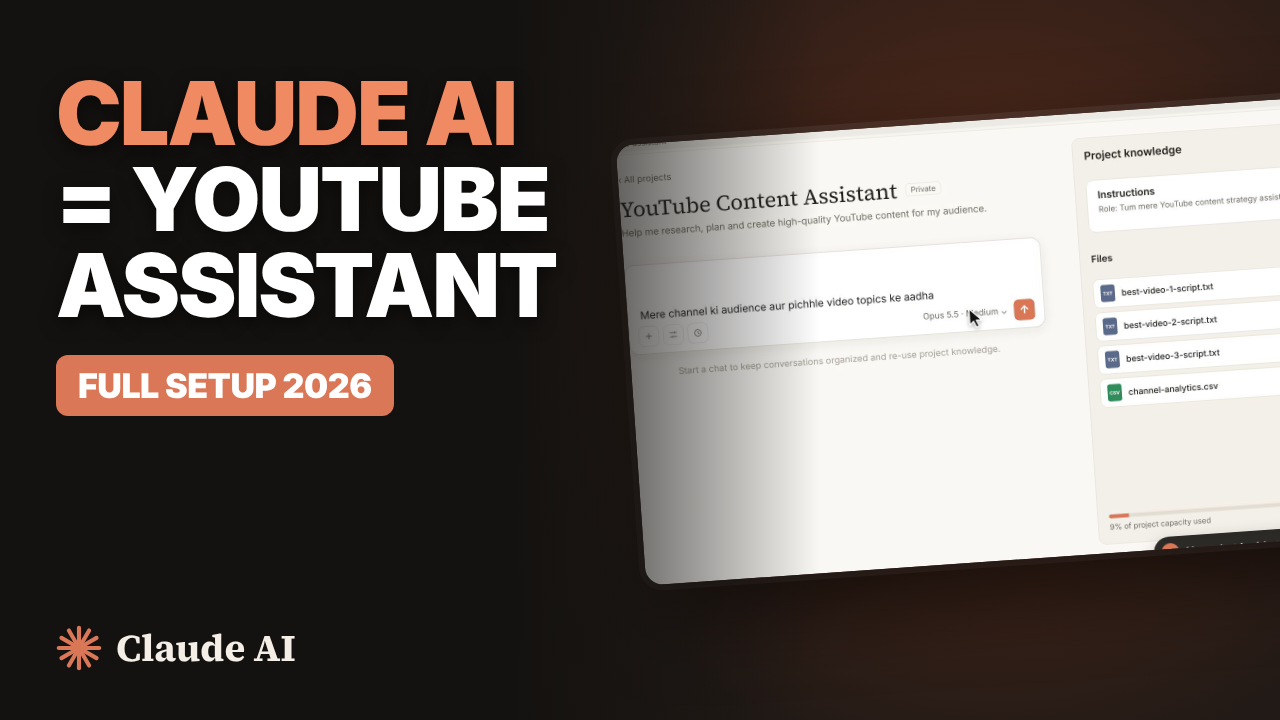
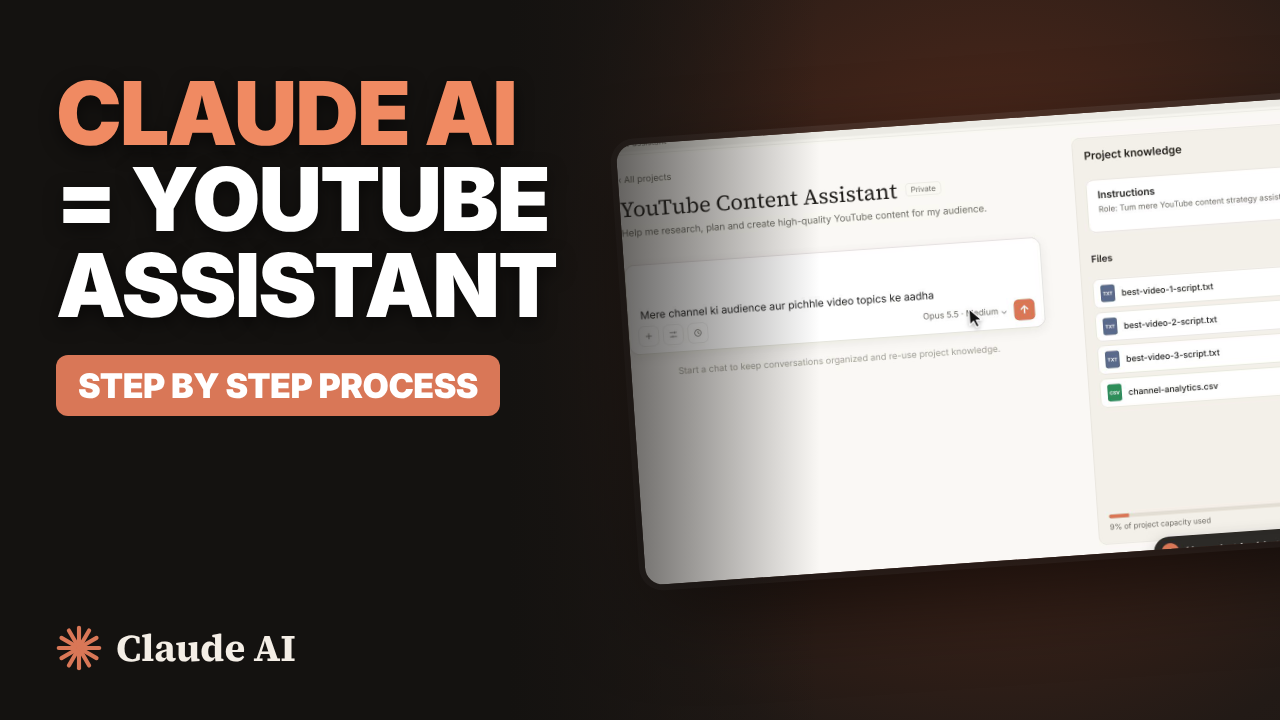
Dub tutorial: drop year from on-screen titles, rename Studio menu to Languages
Claude-Session: https://claude.ai/code/session_01MyjjH9AmvggqVS9HEsQbBr

Changed region(s): [[0.0625, 0.4889, 0.4062, 0.5806]]

diff --git a/youtube-production-kit/remotion/claude-sample-60/src/dub/studio.tsx b/youtube-production-kit/remotion/claude-sample-60/src/dub/studio.tsx
@@ -53,7 +53,7 @@ export const Avatar: React.FC<{ size: number; style?: React.CSSProperties }> = (
   <div style={{ width: size, height: size, borderRadius: size / 2, background: "linear-gradient(135deg,#D97757,#B4532F)", color: "#fff", display: "grid", placeItems: "center", fontWeight: 700, fontSize: size * 0.46, fontFamily: SANS, ...style }}>S</div>
 );
 
-export const NAV = ["Dashboard", "Content", "Analytics", "Community", "Subtitles", "Copyright", "Earn", "Customization", "Audio library"] as const;
+export const NAV = ["Dashboard", "Content", "Analytics", "Community", "Languages", "Copyright", "Earn", "Customization", "Audio library"] as const;
 const NAV_IC = [SI.dash, SI.content, SI.analytics, SI.community, SI.subtitles, SI.copyright, SI.earn, SI.custom, SI.audio];
 export const NAV_W = 290;
 export const navY = (i: number) => 262 + i * 56; // page y of item centre
@@ -109,9 +109,9 @@ export const Studio: React.FC<{ active?: number; hover?: number; settingsHover?:
 );
 
 export const VIDEOS = [
-  { t: "Claude AI Ko YouTube Content Assistant Kaise Banaye (Step by Step 2026)", img: "dub/thumbA.png", d: "11:12", langs: "1", mod: "Nov 20, 2026" },
-  { t: "Claude vs ChatGPT: YouTube Creators Ke Liye Kaun Better Hai?", img: "dub/thumbB.png", d: "9:48", langs: "1", mod: "Nov 12, 2026" },
-  { t: "Mobile Se YouTube Channel Kaise Banaye 2026 | Full Guide", img: "dub/thumbC.png", d: "12:05", langs: "1", mod: "Nov 02, 2026" },
+  { t: "Claude AI Ko YouTube Content Assistant Kaise Banaye (Step by Step Process)", img: "dub/thumbA.png", d: "11:12", langs: "1", mod: "Nov 20" },
+  { t: "Claude vs ChatGPT: YouTube Creators Ke Liye Kaun Better Hai?", img: "dub/thumbB.png", d: "9:48", langs: "1", mod: "Nov 12" },
+  { t: "Mobile Se YouTube Channel Kaise Banaye | Full Guide", img: "dub/thumbC.png", d: "12:05", langs: "1", mod: "Nov 02" },
 ];
 export const Thumb: React.FC<{ img: string; w: number; d?: string; style?: React.CSSProperties }> = ({ img, w, d, style }) => (
   <div style={{ position: "relative", width: w, height: (w * 9) / 16, borderRadius: 8, overflow: "hidden", background: "#222", flexShrink: 0, ...style }}>
@@ -147,7 +147,7 @@ export const SUB_ROW_Y = (i: number) => 290 + i * 128;
 export const subRowPt = (i: number) => [760, sy(SUB_ROW_Y(i) + 56)] as [number, number];
 export const SubtitlesList: React.FC<{ hover?: number }> = ({ hover }) => (
   <>
-    <div style={{ position: "absolute", left: 330, top: 100, fontSize: 32, fontWeight: 700 }}>Channel subtitles</div>
+    <div style={{ position: "absolute", left: 330, top: 100, fontSize: 32, fontWeight: 700 }}>Channel languages</div>
     <div style={{ position: "absolute", left: 330, top: 160, display: "flex", gap: 34, fontSize: 18, color: S.sub }}>
       {["All", "Drafts", "Published"].map((t, i) => <div key={t} style={{ paddingBottom: 12, borderBottom: i === 0 ? `3px solid ${S.text}` : "none", color: i === 0 ? S.text : S.sub, fontWeight: i === 0 ? 600 : 400 }}>{t}</div>)}
     </div>
@@ -199,7 +199,7 @@ export const VideoLanguages: React.FC<{ rows: LangRow[]; hl?: { row: number; col
     {rows.map((r, i) => (
       <div key={r.lang} style={{ position: "absolute", left: 330, right: 60, top: LROW_Y(i), height: 86, borderBottom: `1px solid ${S.line}`, fontSize: 18 }}>
         <div style={{ position: "absolute", left: 0, top: 18, lineHeight: 1.3 }}><div style={{ fontWeight: 600 }}>{r.lang}</div>{r.note ? <div style={{ fontSize: 15, color: S.sub }}>{r.note}</div> : null}</div>
-        <div style={{ position: "absolute", left: LANG_COLS.mod - 330, top: 30, color: S.sub }}>{r.audio === "add" && r.title === "add" ? "-" : "Nov 28, 2026"}</div>
+        <div style={{ position: "absolute", left: LANG_COLS.mod - 330, top: 30, color: S.sub }}>{r.audio === "add" && r.title === "add" ? "-" : "Nov 28"}</div>
         {(["audio", "title", "subs"] as const).map((c) => (
           <div key={c} style={{ position: "absolute", left: LANG_COLS[c] - 330 + (r[c] === "add" ? 0 : 14), top: r[c] === "auto" ? 18 : 28 }}>
             <CellView c={r[c]} hl={hl?.row === i && hl.col === c} />

diff --git a/youtube-production-kit/remotion/claude-sample-60/src/dub/scenes2.tsx b/youtube-production-kit/remotion/claude-sample-60/src/dub/scenes2.tsx
@@ -181,7 +181,7 @@ const DashboardLite: React.FC = () => (
 );
 
 // ------------------------------------------------------------------ 9 · Step 5 English title & description
-const EN_T = "How to Turn Claude AI Into Your YouTube Content Assistant (Step by Step 2026)";
+const EN_T = "How to Turn Claude AI Into Your YouTube Content Assistant (Step by Step Process)";
 const EN_D = "Don't use Claude AI like a normal chatbot. In this video I show you, step by step, how to set up Claude as your personal YouTube content assistant.\n\nChapters\n0:00 Intro\n0:55 What is Claude AI?\n1:43 Why Projects matter\n2:40 Create a Project";
 const HI_D = "Claude AI ko sirf ek normal chatbot ki tarah use mat kijiye. Is video mein maine step by step dikhaya hai…\n\nChapters\n0:00 Intro\n0:55 Claude AI kya hai?\n1:43 Projects kyun zaroori hain?";
 export const D09: React.FC<SceneProps> = ({ dur, L }) => {

diff --git a/youtube-production-kit/remotion/claude-sample-60/src/dub/scenes1.tsx b/youtube-production-kit/remotion/claude-sample-60/src/dub/scenes1.tsx
@@ -77,7 +77,7 @@ export const D01: React.FC<SceneProps> = ({ dur, L }) => {
               <Pill tone="dark">HI</Pill><span style={{ fontSize: 44, color: K.clay, lineHeight: "58px" }}>→</span><Pill tone="clay">EN</Pill>
             </div>
             <div style={{ fontFamily: SERIF, fontSize: 76, marginTop: 30, lineHeight: 1.1 }}>How to Dub Your YouTube Video<br />in English</div>
-            <div style={{ fontSize: 28, color: K.sub, marginTop: 18 }}>Step by step · 2026</div>
+            <div style={{ fontSize: 28, color: K.sub, marginTop: 18 }}>Step by step process</div>
             <div style={{ display: "flex", flexWrap: "wrap", justifyContent: "center", gap: 14, margin: "44px 90px 0" }}>
               {AGENDA.map((t, i) => (
                 <div key={t} style={{ ...rise(f, a(5, 0.08) + i * Math.round((L[5]?.d ?? 180) * 0.13), 14, 10) }}>
